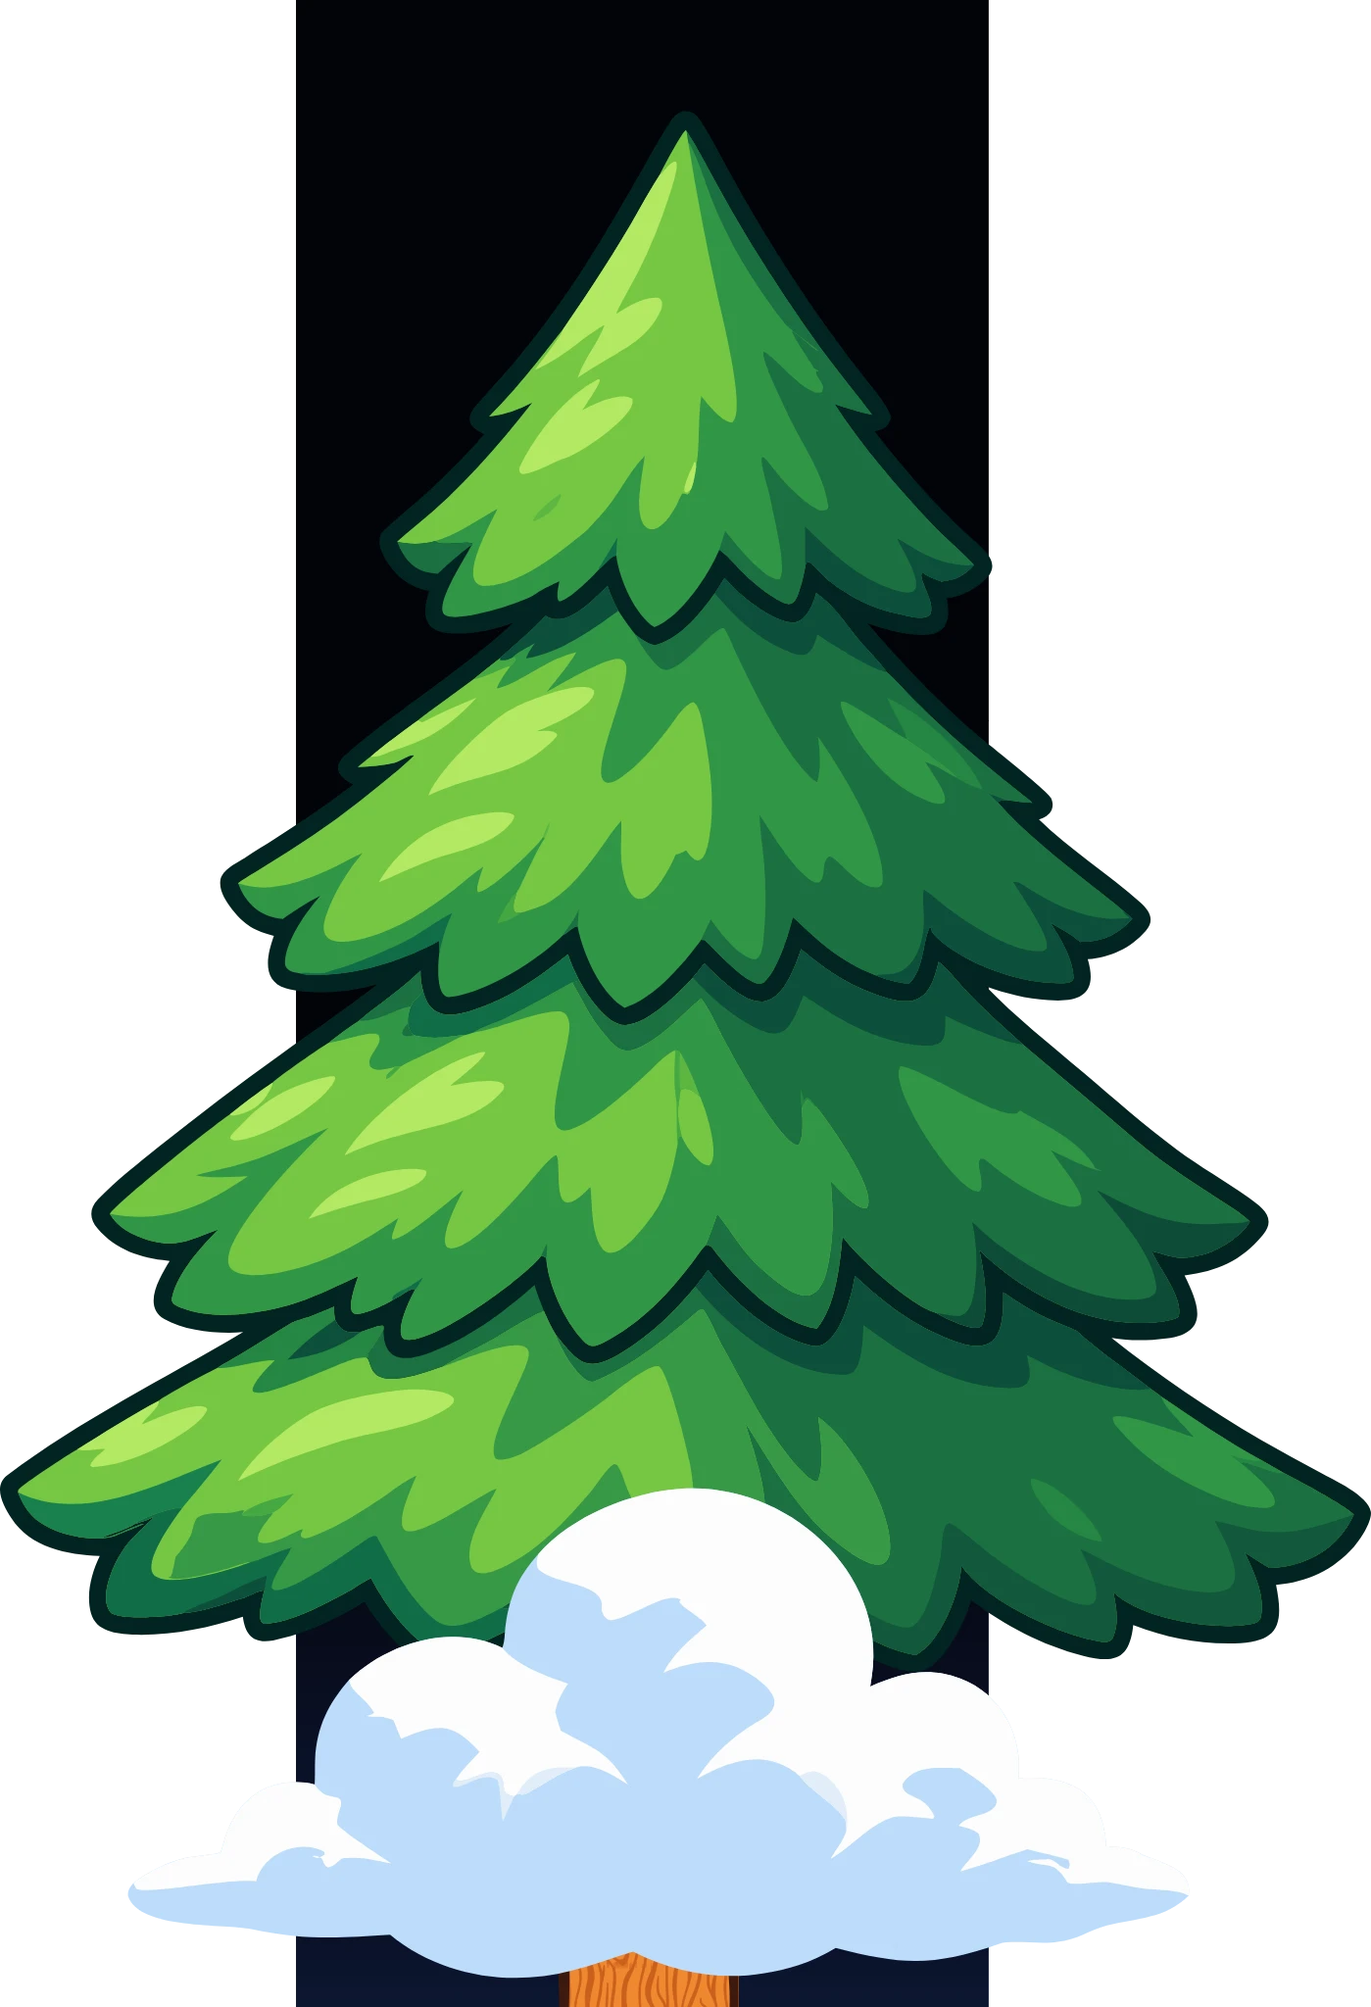
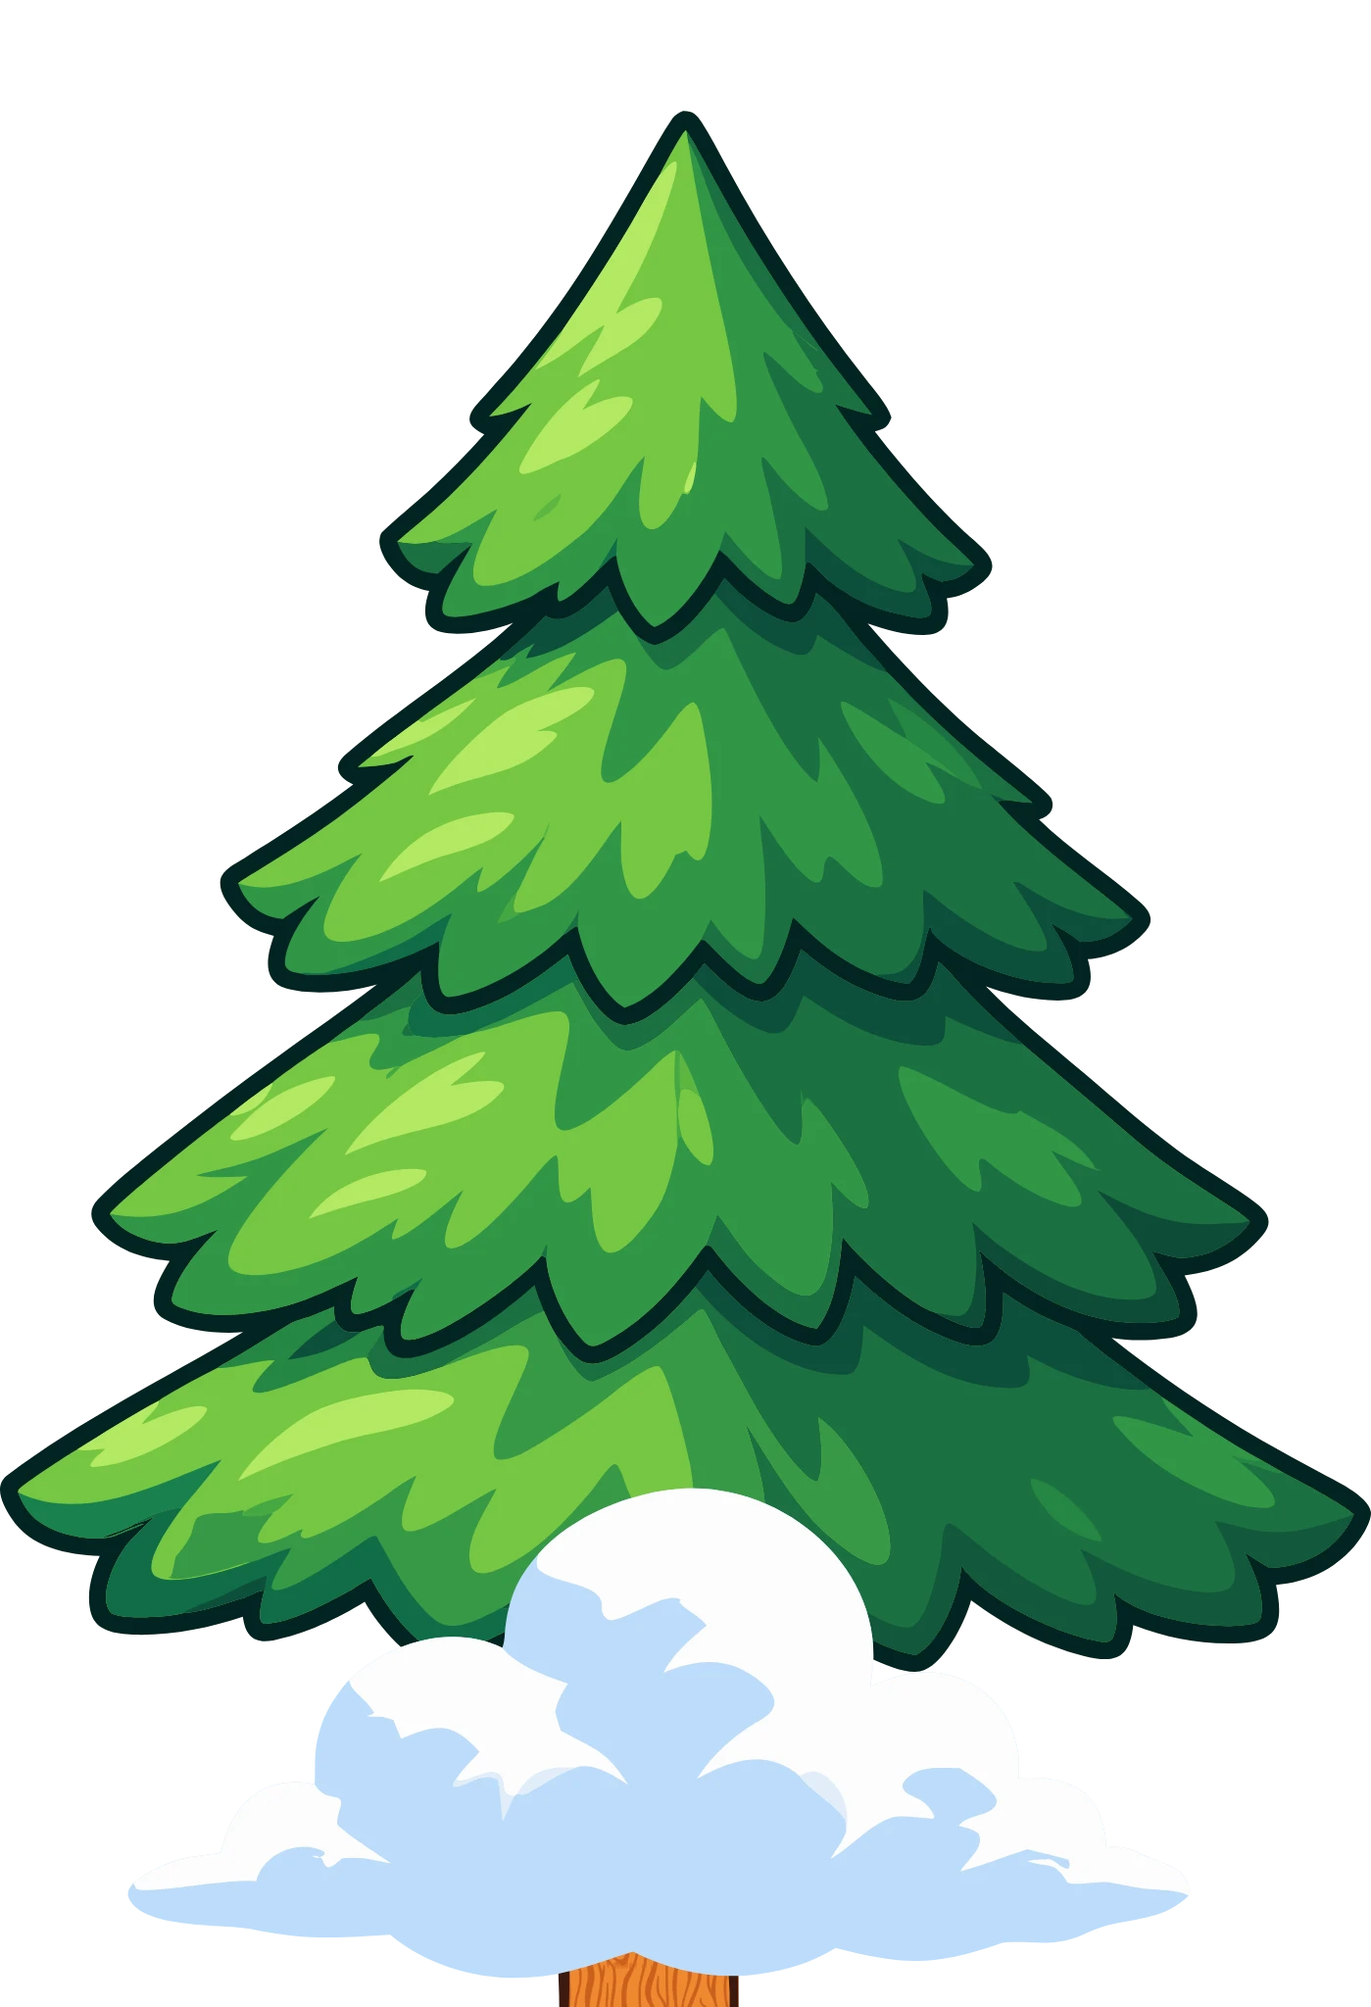
Turn on the height-based sky in the main game
The sky from the preview is now part of the game: the scenery strips in
assets/cenario/ come without the SVG sky and the game draws the sky behind
them, from day through sunset and night to space. The preview page, its
SUBIR button and the separate strip folder are gone, and the scenery tool
now always drops the sky, without the line fixer that only applied to it.

Claude-Session: https://claude.ai/code/session_01UKLCHVfcEm82uNscDst8Wb

diff --git a/ferramentas/gerar-cenario.html b/ferramentas/gerar-cenario.html
@@ -18,14 +18,11 @@
   <p>
     Converte <code>assets/Cenario Jogo 1.svg</code> nas faixas WebP que o jogo carrega
     (<code>assets/cenario/cenario-N.webp</code>), suavizando as emendas entre os blocos
-    repetidos do tronco. Rode de novo sempre que o SVG mudar e salve os arquivos baixados
-    em <code>assets/cenario/</code>.
+    repetidos do tronco. O degrade do ceu fica de fora (fundo transparente): o jogo desenha
+    o ceu, que muda com a altura. Rode de novo sempre que o SVG mudar e salve os arquivos
+    baixados em <code>assets/cenario/</code>.
   </p>
   <p>Abra esta pagina pelo servidor local do jogo (por exemplo http://localhost:8000/ferramentas/gerar-cenario.html).</p>
-  <p>
-    <label><input type="checkbox" id="semCeu"> Sem ceu: tira o degrade do ceu e deixa o fundo transparente,
-    para o jogo desenhar o ceu mudando com a altura. Salve essas faixas em <code>assets/cenario-sem-ceu/</code>.</label>
-  </p>
   <button id="gerar">Gerar faixas</button>
   <p id="estado"></p>
   <div id="faixas"></div>
@@ -144,50 +141,6 @@
       return faixas.length;
     }
 
-    // A borda da imagem da floresta deixa uma linha fina no ceu. Acha linhas de
-    // 1 a 3 px que destoam das vizinhas no ceu e as refaz interpolando acima e abaixo,
-    // so onde a imagem e lisa (ceu), sem borrar arvores e nuvens.
-    function removerLinhasCeu(ctx, largura, altura) {
-      const colunas = [];
-      for (let x = 330; x < 500; x += 3) colunas.push(x);
-      for (let x = 830; x < 980; x += 3) colunas.push(x);
-      const dados = ctx.getImageData(0, 0, largura, altura).data;
-      const cor = (x, y) => { const i = (y * largura + x) * 4; return [dados[i], dados[i + 1], dados[i + 2], dados[i + 3]]; };
-      const diferenca = (a, b) => Math.abs(a[0] - b[0]) + Math.abs(a[1] - b[1]) + Math.abs(a[2] - b[2]);
-      const linhas = [];
-      for (let y = 4; y < altura - 4; y++) {
-        let ceu = 0;
-        let destoa = 0;
-        for (const x of colunas) {
-          const acima = cor(x, y - 3);
-          const abaixo = cor(x, y + 3);
-          if (acima[3] < 250 || acima[2] < acima[0] + 60 || diferenca(acima, abaixo) > 12) continue;
-          ceu++;
-          const meio = [0, 1, 2].map((c) => (acima[c] + abaixo[c]) / 2);
-          if (diferenca(cor(x, y), meio) > 24) destoa++;
-        }
-        if (ceu > 12 && destoa / ceu > 0.5) linhas.push(y);
-      }
-      if (!linhas.length) return 0;
-      const imagem = ctx.getImageData(0, 0, largura, altura);
-      const p = imagem.data;
-      for (const y of linhas) {
-        for (let x = 0; x < largura; x++) {
-          const a = ((y - 3) * largura + x) * 4;
-          const b = ((y + 3) * largura + x) * 4;
-          if (p[a + 3] < 250 || p[b + 3] < 250) continue;
-          if (Math.abs(p[a] - p[b]) + Math.abs(p[a + 1] - p[b + 1]) + Math.abs(p[a + 2] - p[b + 2]) > 12) continue;
-          for (let k = -2; k <= 2; k++) {
-            const i = ((y + k) * largura + x) * 4;
-            const t = (k + 3) / 6;
-            for (let c = 0; c < 3; c++) p[i + c] = p[a + c] + (p[b + c] - p[a + c]) * t;
-          }
-        }
-      }
-      ctx.putImageData(imagem, 0, 0);
-      return linhas.length;
-    }
-
     function carregarImagem(url) {
       return new Promise((resolver, rejeitar) => {
         const imagem = new Image();
@@ -198,7 +151,7 @@
     }
 
     // Desenha cada faixa do SVG (com margem de filtragem) e devolve os WebP prontos.
-    async function gerarFaixas(aoAvancar = () => {}, semCeu = false) {
+    async function gerarFaixas(aoAvancar = () => {}) {
       const texto = await (await fetch('../assets/Cenario Jogo 1.svg')).text();
       const documento = new DOMParser().parseFromString(texto, 'image/svg+xml');
       const raiz = documento.documentElement;
@@ -207,15 +160,16 @@
       raiz.setAttribute('y', y);
       raiz.setAttribute('width', largura);
       raiz.setAttribute('height', altura);
-      // O ceu sao as faixas retangulares preenchidas com os degrades paint0 a paint10.
-      if (semCeu) documento.querySelectorAll('path[fill^="url(#paint"]').forEach((forma) => forma.remove());
-      // As faixas de gradiente do ceu e os blocos do tronco (cor base e veios) se
-      // encostam; um contorno da mesma cor fecha a fresta que o anti-aliasing deixa
-      // entre eles. Nos veios o contorno e mais fino para nao engrossar o desenho.
+      // O ceu sao as faixas retangulares preenchidas com os degrades paint0 a paint10;
+      // saem para o fundo ficar transparente.
+      documento.querySelectorAll('path[fill^="url(#paint"]').forEach((forma) => forma.remove());
+      // Os blocos do tronco (cor base e veios) se encostam; um contorno da mesma cor
+      // fecha a fresta que o anti-aliasing deixa entre eles. Nos veios o contorno e
+      // mais fino para nao engrossar o desenho.
       const larguraContorno = { '#EF8830': 24, '#CB601D': 16 };
       documento.querySelectorAll('path').forEach((forma) => {
         const cor = forma.getAttribute('fill') || '';
-        const largura = cor.startsWith('url(#paint') ? 24 : larguraContorno[cor];
+        const largura = larguraContorno[cor];
         if (!largura || forma.hasAttribute('stroke')) return;
         forma.setAttribute('stroke', cor);
         forma.setAttribute('stroke-width', String(largura));
@@ -243,8 +197,7 @@
         const ctx = tela.getContext('2d', { willReadFrequently: true });
         ctx.drawImage(imagem, 0, 0, tela.width, tela.height);
         const emendas = preencherFalhasVeios(ctx, tela.width, tela.height) +
-          suavizarEmendasTronco(ctx, tela.width, tela.height).length +
-          removerLinhasCeu(ctx, tela.width, tela.height);
+          suavizarEmendasTronco(ctx, tela.width, tela.height).length;
         const blob = await new Promise((resolver) => tela.toBlob(resolver, 'image/webp', 0.9));
         faixas.push({ nome: `cenario-${i}.webp`, blob, emendas });
       }
@@ -256,10 +209,8 @@
       const lista = document.getElementById('faixas');
       lista.innerHTML = '';
       try {
-        const semCeu = document.getElementById('semCeu').checked;
-        const faixas = await gerarFaixas((texto) => { estado.textContent = texto; }, semCeu);
-        estado.textContent = 'Pronto! Clique em cada faixa para baixar e salve em assets/' +
-          (semCeu ? 'cenario-sem-ceu/.' : 'cenario/.');
+        const faixas = await gerarFaixas((texto) => { estado.textContent = texto; });
+        estado.textContent = 'Pronto! Clique em cada faixa para baixar e salve em assets/cenario/.';
         for (const faixa of faixas) {
           const url = URL.createObjectURL(faixa.blob);
           lista.insertAdjacentHTML('beforeend', `<figure><a href="${url}" download="${faixa.nome}">

diff --git a/GameV2.js b/GameV2.js
@@ -50,11 +50,9 @@ const texturaCenario = {
     alturaFaixa: 2044,
     margem: 2
 };
-// Previa do ceu mudando com a altura, aberta por ceu.html. No jogo oficial fica desligada.
-const previaCeu = window.previaCeu === true;
 // Cada tronco fica em media 212 acima do anterior (190 a 235, em gerarPlataformas).
 const alturaPorTronco = 212;
-// Fases do ceu pela altura alcancada, em troncos. O ceu fica parado em cada fase e
+// O ceu e desenhado no jogo, atras do cenario, e muda pela altura alcancada, em troncos. O ceu fica parado em cada fase e
 // muda nos ultimos `transicaoCeu` troncos antes da seguinte. topo, meio e base formam
 // o degrade; luz tinge o cenario; sol e a altura do sol na tela (acima de 1 ja se pos);
 // estrelas, lua e espaco vao de 0 a 1. As fases ficam fora dos multiplos de 20 para o
@@ -435,11 +433,10 @@ function preload() {
     // Faixas do cenario ja desenhadas a partir de assets/Cenario Jogo 1.svg por
     // ferramentas/gerar-cenario.html, com as emendas do tronco suavizadas.
     // Carregar o SVG de 12 MB direto era lento demais no celular.
-    // Na previa do ceu as faixas vem sem o degrade do ceu, que e desenhado no jogo.
-    const pastaCenario = previaCeu ? 'assets/cenario-sem-ceu' : 'assets/cenario';
+    // As faixas vem sem o degrade do ceu, que e desenhado no jogo (criarCeu).
     const quantidadeFaixas = Math.ceil(texturaCenario.altura / texturaCenario.alturaFaixa);
     for (let i = 0; i < quantidadeFaixas; i++) {
-        this.load.image('cenario_' + i, `${pastaCenario}/cenario-${i}.webp`);
+        this.load.image('cenario_' + i, `assets/cenario/cenario-${i}.webp`);
     }
     this.load.svg('troncoLiso', 'assets/tronco liso.svg');
     this.load.svg('troncoRachado', 'assets/tronco rachado.svg');
@@ -481,8 +478,6 @@ function create(data = {}) {
     this.moedas = this.physics.add.staticGroup();
     this.velocidadeJogo = 1;
     this.sombraGato = null;
-    this.ceu = null;
-    this.textoPrevia = null;
     this.physics.world.gravity.y = config.physics.arcade.gravity.y;
     const cenarioFundo = this.add.container(config.width / 2, config.height)
         .setScrollFactor(0).setDepth(-2);
@@ -828,7 +823,6 @@ function criarHud(cena) {
     const botaoSom = criarBotaoHud(cena, 336, desenharIconeSom, () => som.alternarMudo());
     cena.hud = { granulados, fundo, icone, texto, troncos, fundoTroncos, textoTroncos, botaoSom };
     atualizarHud(cena);
-    if (previaCeu) criarControlesPrevia(cena);
     [granulados, troncos, botaoPausa.grafico, botaoSom.grafico].forEach((item, i) => {
         item.setAlpha(0);
         item.y -= 20;
@@ -1744,9 +1738,8 @@ function criarTexturasCeu(cena) {
     g.destroy();
 }
 
-// Ceu da previa, atras do cenario sem ceu: degrade, sol, estrelas, lua e planetas.
+// Ceu atras do cenario (que nao tem ceu): degrade, sol, estrelas, lua e planetas.
 function criarCeu(cena) {
-    if (!previaCeu) return;
     criarTexturasCeu(cena);
     const fixo = (objeto, profundidade) => objeto.setScrollFactor(0).setDepth(profundidade);
     const brilhos = [];
@@ -1776,7 +1769,6 @@ function criarCeu(cena) {
 
 function atualizarCeu(cena, delta) {
     const ceu = cena.ceu;
-    if (!ceu) return;
     ceu.tempo += delta / 1000;
     const troncos = Math.max(0, cena.alturaMax) / alturaPorTronco;
     let indice = 0;
@@ -1790,7 +1782,6 @@ function atualizarCeu(cena, delta) {
         ceu.fase = indice;
         mostrarFaixa(cena, atual.aviso[0], atual.aviso[1], atual.cor);
     }
-    if (cena.textoPrevia) cena.textoPrevia.setText(`Prévia do céu · ${Math.floor(troncos)} troncos de altura`);
 
     // O degrade so e redesenhado quando as cores mudam.
     const topo = cor('topo');
@@ -1856,25 +1847,6 @@ function criarEstrelaCadente(cena) {
         targets: rastro, alpha: 0.9, duration: 150, hold: 350, yoyo: true,
         onComplete: () => rastro.destroy()
     });
-}
-
-// So na previa: botao para subir rapido e a altura atual, para ver todas as fases do ceu.
-function criarControlesPrevia(cena) {
-    const botao = cena.add.text(10, 50, '▲ SUBIR', {
-        resolution: 4, fontFamily: 'Arial', fontSize: '12px', fontStyle: 'bold',
-        color: '#382017', backgroundColor: '#ffd24a', padding: { x: 10, y: 6 }
-    }).setScrollFactor(0).setDepth(12).setInteractive({ useHandCursor: true });
-    botao.on('pointerdown', (ponteiro, xLocal, yLocal, evento) => {
-        // Nao deixa o toque retomar a pausa.
-        evento.stopPropagation();
-        if (!cena.iniciado || cena.morreu || cena.pausado) return;
-        aplicarImpulsoDourado(cena.caixa, 1500);
-    });
-    cena.textoPrevia = cena.add.text(82, 62, '', {
-        resolution: 4, fontFamily: 'Arial', fontSize: '11px', fontStyle: 'bold',
-        color: corTexto, stroke: '#1a0e08', strokeThickness: 3
-    }).setOrigin(0, 0.5).setScrollFactor(0).setDepth(12);
-    atualizarCeu(cena, 0);
 }
 
 // Achata ou estica o gato e volta ao normal com um balanco elastico.

diff --git a/index.html b/index.html
@@ -37,6 +37,6 @@
 <body>
   <div id="jogo"></div>
   <script src="https://cdn.jsdelivr.net/npm/phaser@3.90/dist/phaser.min.js"></script>
-  <script src="GameV2.js?v=casspet-4"></script>
+  <script src="GameV2.js?v=casspet-5"></script>
 </body>
 </html>

diff --git a/README.md b/README.md
@@ -35,11 +35,12 @@ A tela se ajusta ao formato do celular: o mundo tem sempre 360 de largura e a al
 - `index.html`: pagina, canvas e carregamento do Phaser.
 - `GameV2.js`: configuracao, cenas, movimento, plataformas, moedas e cenario.
 - `assets/`: imagens originais e texturas usadas no jogo.
-- `ceu.html`: previa do ceu mudando com a altura (dia, fim de tarde, por do sol, noite e espaco), com um botao SUBIR para ver as fases rapido. Usa as faixas de `assets/cenario-sem-ceu/`.
 - `assets/cenario/`: faixas WebP do cenario, geradas a partir do SVG.
 - `ferramentas/gerar-cenario.html`: gera as faixas do cenario.
 
-O cenario vem da arte completa de `assets/Cenario Jogo 1.svg` (ceu, tronco e base), mas o jogo carrega faixas WebP ja desenhadas em `assets/cenario/` (cerca de 450 KB no total, contra 12 MB do SVG), o que deixa o carregamento rapido no celular. As faixas tem ate 1399 x 2048 px, com margens de filtragem que ficam fora da area desenhada. Ao gerar, a ferramenta fecha as frestas entre as formas encostadas do SVG e suaviza as emendas entre os blocos repetidos do tronco. **Sempre que o SVG mudar**, abra `http://localhost:8000/ferramentas/gerar-cenario.html` com o servidor rodando, clique em "Gerar faixas" e salve os arquivos baixados em `assets/cenario/`. A camera revela o cenario durante a subida. O ponto de partida e o chao de `assets/chao.webp` (versao reduzida para 900 px e com alfa solido de `assets/chao-original.webp`); `alturaChao` em `GameV2.js` define a altura da grama, e a terra cobre ate a borda de baixo da tela. Duas borboletas voam sobre o gramado e o gato tem uma sombra macia quando esta perto do chao. Uma a cada tres plataformas oscila lateralmente, levando seu granulado junto; as duas primeiras e o chao ficam parados.
+O cenario vem da arte completa de `assets/Cenario Jogo 1.svg` (tronco, copa, nuvens e base), mas o jogo carrega faixas WebP ja desenhadas em `assets/cenario/` (cerca de 600 KB no total, contra 12 MB do SVG), o que deixa o carregamento rapido no celular. As faixas tem ate 1399 x 2048 px, com margens de filtragem que ficam fora da area desenhada. Ao gerar, a ferramenta tira o degrade do ceu (o fundo fica transparente), fecha as frestas entre as formas encostadas do SVG e suaviza as emendas entre os blocos repetidos do tronco. **Sempre que o SVG mudar**, abra `http://localhost:8000/ferramentas/gerar-cenario.html` com o servidor rodando, clique em "Gerar faixas" e salve os arquivos baixados em `assets/cenario/`. A camera revela o cenario durante a subida.
+
+O ceu e desenhado no jogo, atras do cenario, e muda com a altura: dia, fim de tarde (30 troncos), por do sol (65), noite (95) e espaco (150). O sol desce e avermelha ate se por, as estrelas aparecem e piscam, passam estrelas cadentes, a lua surge a noite e, no espaco, aparecem a Terra e um planeta com anel. A luz do cenario acompanha cada fase, e um aviso marca a chegada em cada uma. O ponto de partida e o chao de `assets/chao.webp` (versao reduzida para 900 px e com alfa solido de `assets/chao-original.webp`); `alturaChao` em `GameV2.js` define a altura da grama, e a terra cobre ate a borda de baixo da tela. Duas borboletas voam sobre o gramado e o gato tem uma sombra macia quando esta perto do chao. Uma a cada tres plataformas oscila lateralmente, levando seu granulado junto; as duas primeiras e o chao ficam parados.
 
 O granulado dourado aparece em intervalos aleatorios de 18 a 30 plataformas e impulsiona o gato como uma mola.
 

diff --git a/CLAUDE.md b/CLAUDE.md
@@ -48,15 +48,15 @@ ser revista em CONFIGURACOES > HISTORIA.
 - Guaxinim: `assets/guaxinim.png` (recorte transparente de `guaxinim-original.webp`); o pacote que ele
   carrega e a textura `fx_saco`, desenhada no codigo.
 - Sons e musica sao sintetizados com Web Audio (objetos `som`, `musica` e `trilha`), sem arquivos de audio.
-- **Previa do ceu** (`ceu.html`, que liga `window.previaCeu`): carrega `assets/cenario-sem-ceu/` (faixas geradas
-  com a opcao "Sem ceu" da ferramenta) e desenha o ceu no codigo, mudando com a altura (`fasesCeu`: dia, fim de
-  tarde, por do sol, noite e espaco), com sol, estrelas, lua, Terra e planeta, e um botao SUBIR so na previa.
-  O jogo oficial (`index.html`) nao muda. Ainda aguardando aprovacao do usuario para ligar no jogo oficial.
+- **Ceu:** as faixas do cenario nao tem ceu (a ferramenta tira o degrade do SVG e deixa o fundo transparente).
+  O ceu e desenhado no codigo (`criarCeu`/`atualizarCeu`) e muda com a altura alcancada em troncos (`fasesCeu`):
+  dia, fim de tarde (30), por do sol (65), noite (95) e espaco (150), com sol que se poe, estrelas, estrelas
+  cadentes, lua, Terra e planeta com anel; a luz do cenario acompanha. Aprovado pelo usuario. As fases evitam
+  multiplos de 20 (aviso de "MAIS RAPIDO!") e a noite vem antes da copa do pinheiro (~110 a ~185 troncos).
 
 ## Ideias guardadas pelo usuario (ainda nao feitas)
 
 - Passarinho inimigo a partir de certa altura.
-- Ceu mudando com a altura (tarde, por do sol, noite, espaco) - em previa em `ceu.html`.
 - Um final no topo da arvore (ninho do guaxinim + quadrinho final) - sugerido, ainda nao confirmado.
 
 ## Observacoes
